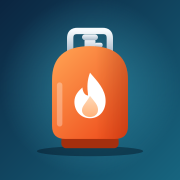
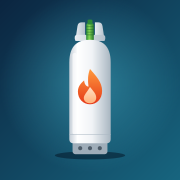
Rediseña los balones con la silueta alta de 45 kg
El icono de la app y las figuras de uso y reserva toman como base un balón
blanco alto con protector, válvula verde y base con orificios. El emblema
es una llama propia, sin logotipo de marca. Se sube la versión de la caché
del service worker.

Claude-Session: https://claude.ai/code/session_01EhwefyhFDAxEZfG53dcKNG

Changed region(s): [[0.1944, 0.1111, 0.8056, 0.8889]]

diff --git a/index.html b/index.html
@@ -30,6 +30,7 @@
   --line: #d8dee5;
   --track: #e2e8ee;
   --accent: #c2410c;
+  --valve: #2f8f3a;
   --accent-bg: #fdebe0;
   --on-accent: #ffffff;
   --over: #b42318;
@@ -51,6 +52,7 @@
     --line: #2a3541;
     --track: #26313c;
     --accent: #ff9158;
+  --valve: #5fcf6b;
     --accent-bg: #3a2619;
     --on-accent: #1d0d02;
     --over: #ff9b92;
@@ -67,6 +69,7 @@
   --line: #2a3541;
   --track: #26313c;
   --accent: #ff9158;
+  --valve: #5fcf6b;
   --accent-bg: #3a2619;
   --on-accent: #1d0d02;
   --over: #ff9b92;
@@ -136,7 +139,7 @@ svg { display: block; }
 /* Balones: en uso y de reserva */
 .fleet { display: flex; justify-content: center; gap: 20px; padding: 4px 0 2px; }
 .unit { display: flex; flex-direction: column; align-items: center; gap: 8px; min-width: 0; flex: 1 1 0; max-width: 150px; }
-.unit svg { width: 92px; max-width: 100%; height: auto; }
+.unit svg { width: 62px; max-width: 100%; height: auto; }
 .cap { text-align: center; line-height: 1.25; }
 .cap b { display: block; font-size: 15px; font-weight: 600; }
 .cap span { display: block; font-size: 13px; color: var(--muted); }
@@ -144,8 +147,10 @@ svg { display: block; }
 .t-fill { fill: var(--accent); }
 .t-outline { fill: none; stroke: var(--muted); stroke-width: 2.5; stroke-linejoin: round; }
 .t-outline.is-empty { stroke-dasharray: 6 5; }
-.t-handle { fill: none; stroke: var(--muted); stroke-width: 5; stroke-linecap: round; stroke-linejoin: round; }
-.t-valve, .t-base { fill: var(--muted); }
+.t-base { fill: var(--muted); opacity: 0.55; }
+.t-hole { fill: var(--surface); }
+.t-guard { fill: var(--muted); opacity: 0.55; }
+.t-valve { fill: var(--valve); }
 .row.is-reserve .dur b { color: var(--muted); }
 
 /* Resumen */
@@ -365,16 +370,20 @@ svg { display: block; }
     return '<header class="top"><span class="mark">' + I_FLAME + '</span><div><div class="eyebrow">Gas licuado</div><h1>Balón de gas</h1></div></header>';
   }
 
-  var BODY = 'M16 62Q16 26 50 26Q84 26 84 62V120Q84 134 70 134H30Q16 134 16 120Z';
+  // Balón de 45 kg (viewBox 100 x 260): protector, válvula verde, cuerpo alto y base con orificios
+  var BODY = 'M12 84C12 52 28 42 50 42C72 42 88 52 88 84V224Q88 232 80 232H20Q12 232 12 224Z';
   // Figura de un balón; `frac` es la parte que sigue llena (0 a 1)
   function tankSvg(frac, uid, label) {
     frac = Math.max(0, Math.min(1, frac));
-    var hh = 108 * frac, y = 134 - hh;
-    return '<svg viewBox="0 0 100 150" role="img" aria-label="' + label + '">' +
+    var hh = 190 * frac, y = 232 - hh;
+    return '<svg viewBox="0 0 100 260" role="img" aria-label="' + label + '">' +
       '<defs><clipPath id="cp-' + uid + '"><path d="' + BODY + '"/></clipPath></defs>' +
-      '<path class="t-handle" d="M33 24V15Q33 9 39 9H61Q67 9 67 15V24"/>' +
-      '<rect class="t-valve" x="44" y="14" width="12" height="14" rx="3"/>' +
-      '<rect class="t-base" x="24" y="132" width="52" height="11" rx="4"/>' +
+      '<rect class="t-base" x="18" y="226" width="64" height="26" rx="5"/>' +
+      '<g class="t-hole"><circle cx="32" cy="241" r="3.8"/><circle cx="50" cy="241" r="3.8"/><circle cx="68" cy="241" r="3.8"/></g>' +
+      '<path class="t-guard" d="M23 44L27 17Q28 10 35 10H41V44ZM77 44L73 17Q72 10 65 10H59V44Z"/>' +
+      '<rect class="t-guard" x="22" y="33" width="56" height="11" rx="4"/>' +
+      '<rect class="t-valve" x="43" y="12" width="14" height="32" rx="3"/>' +
+      '<rect class="t-valve" x="45.5" y="5" width="9" height="9" rx="2.2"/>' +
       '<path class="t-shell" d="' + BODY + '"/>' +
       (frac > 0 ? '<rect class="t-fill" x="0" y="' + y.toFixed(1) + '" width="100" height="' + hh.toFixed(1) + '" clip-path="url(#cp-' + uid + ')"/>' : '') +
       '<path class="t-outline' + (frac === 0 ? ' is-empty' : '') + '" d="' + BODY + '"/></svg>';

diff --git a/sw.js b/sw.js
@@ -1,5 +1,5 @@
 // Service worker mínimo: deja la app disponible sin conexión.
-const CACHE = 'balon-gas-v2';
+const CACHE = 'balon-gas-v3';
 const ASSETS = [
   './',
   'index.html',

diff --git a/README.md b/README.md
@@ -6,7 +6,7 @@ App personal para llevar el control de los balones de gas licuado: registra cuá
 
 - **Abrir nuevo balón**: indica la fecha de apertura (por defecto hoy). Si había uno en uso, se cierra en esa misma fecha.
 - **Registrar compra**: guarda un balón comprado que aún no se abre (reserva). Al usar "Abrir balón de reserva", ese balón pasa a estar en uso y el actual se cierra en la misma fecha.
-- **Dos balones de 45 kg**: la tarjeta principal dibuja el balón en uso, coloreado según lo que queda (estimado con tu promedio de días), y el de reserva, lleno si está comprado y sin abrir o vacío si no hay reserva.
+- **Dos balones de 45 kg**: la tarjeta principal dibuja el balón en uso (cilindro blanco alto con válvula verde), coloreado según lo que queda (estimado con tu promedio de días), y el de reserva, lleno si está comprado y sin abrir o vacío si no hay reserva.
 - **Días de uso**: muestra cuántos días lleva el balón actual, el porcentaje consumido y la fecha estimada de cambio.
 - **Historial**: lista de todos los balones con fechas, días de uso, tamaño y precio (opcionales). Cada registro se puede editar o eliminar.
 - **Registros anteriores**: botón para ingresar a mano balones que ya usaste, con sus fechas de apertura y cierre.
